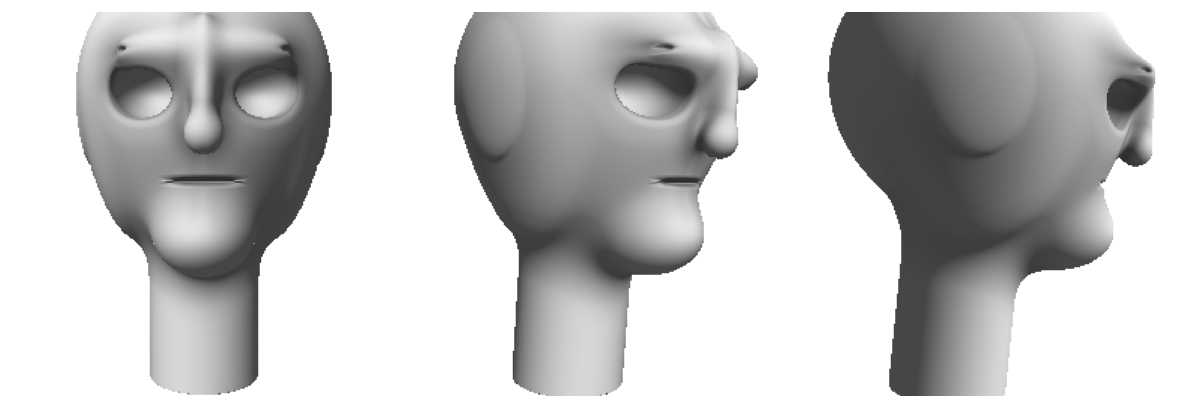
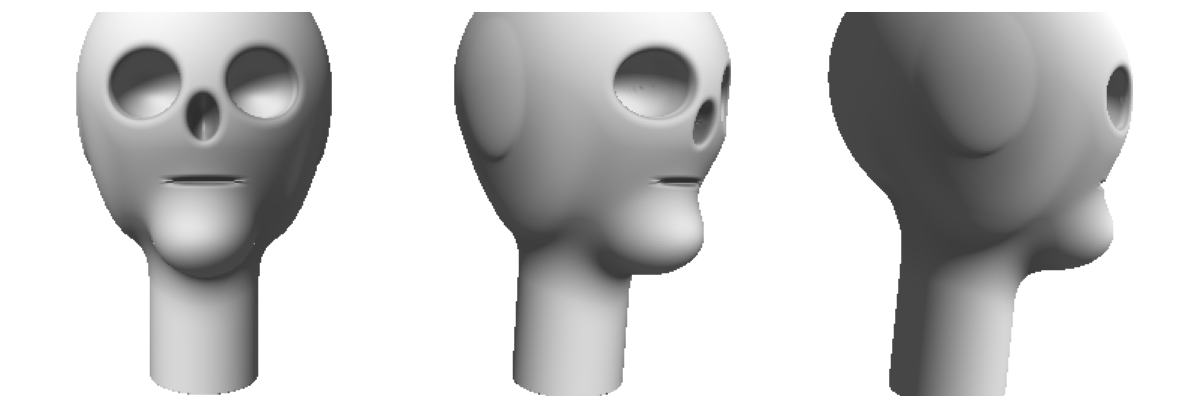
skull: strip nose protrusion + brow bulge, carve nasal aperture instead
The core was modeling a fleshy nose wedge and a brow fullness - style features
that read alien. On a skull the nose is the nasal APERTURE (a hollow, like the
orbits) and the brow is just the bony orbit rim. Remove both modeled bumps;
carve a midline nasal recess. Front now reads as a skull (orbit + nasal
hollows). Open: profile is a smooth balloon (needs cheekbone/maxilla bone);
nasal aperture sits a touch high.

Changed region(s): [[0.0617, 0.0294, 0.2775, 0.4118], [0.4933, 0.0294, 0.6475, 0.4118], [0.8942, 0.0882, 0.9867, 0.4118]]

diff --git a/face-lib/spike/skull.ts b/face-lib/spike/skull.ts
@@ -64,26 +64,22 @@ export const skull = (p: Vec3, dial: Partial<HeadDial> = {}): number => {
   const socket = (sx: number) => ellipsoid(p, [sx, eyeY, socketCZ], socketR);
   head = smoothSubtract(head, min(socket(-eyeX), socket(eyeX)), 0.05);
 
-  // 3b. Brow ridge — only a SUBTLE fullness on the bone bridging forehead and
-  //     orbit rim. Barely proud, wide blend, so it is part of the plane, not a
-  //     visor. Sits just above the orbit's upper edge.
-  const browY = eyeY + socketR[1] * 0.85;
-  const ridge = ellipsoid(
-    p, [0, browY, surfZ(0, browY) + rz * 0.02],
-    [rx * 0.46, c.eyeSpacing * 0.16, rz * 0.08],
-  );
-  head = smin(head, ridge, 0.20);
+  // NOTE: no brow ridge and no nose PROTRUSION. On a skull the brow is just the
+  // bony upper rim of the orbit (made by the carve above), and the nose is not a
+  // bump at all — it is the nasal APERTURE, a hollow, like the eyes. A modeled
+  // brow fullness or fleshy nose-wedge is the core drawing style's features, and
+  // it read alien. The fleshy nose + eyebrows belong to the style layer.
 
-  // 4. Nose — ONE neutral Loomis wedge (dorsum + tip), no ala balls. A
-  //    style-neutral anchor: it just marks the nose plane for the style to fill.
-  const rootY = c.browY, baseY = c.noseBaseY;
-  const dorsum = ellipsoid(
-    p, [0, (rootY + baseY) / 2, surfZ(0, (rootY + baseY) / 2) + rz * 0.05],
-    [rx * d.noseBridgeWidth * 0.9, (rootY - baseY) / 2 * 1.05, rz * 0.12],
-  );
-  const tip = sphere(p, [0, baseY + rx * d.noseTipBulge * 0.3, surfZ(0, baseY) + rz * d.noseProjection], rx * d.noseTipBulge);
-  const nose = smin(dorsum, tip, 0.05);
-  head = smin(head, nose, 0.05);
+  // 4. Nasal aperture — a recess (the piriform opening), not a protrusion.
+  //    A narrow vertical hollow on the midline from just under the glabella down
+  //    to the nasal spine. Conveys the nose PLANE for style without a bump.
+  const apTopY = c.eyeY - c.eyeSpacing * 0.15;
+  const apBotY = c.noseBaseY + c.eyeSpacing * 0.05;
+  const apY = (apTopY + apBotY) / 2;
+  const apR: Vec3 = [rx * 0.11, (apTopY - apBotY) / 2, rz * 0.30];
+  const apCZ = surfZ(0, apY) - apR[2] * 0.58; // front pole = skin + 0.42*depth (bites in)
+  const aperture = ellipsoid(p, [0, apY, apCZ], apR);
+  head = smoothSubtract(head, aperture, 0.04);
 
   // 5. Mouth — a faint groove anchor (style draws the lips). Subtle so it never
   //    reads as a drawn mouth on its own.
